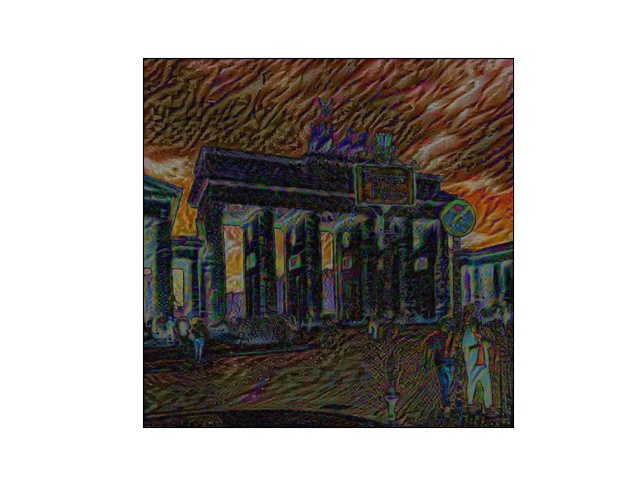
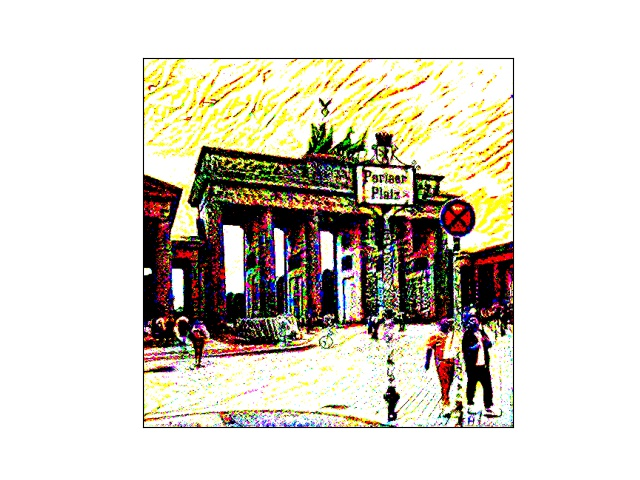
added photos, edit README, edit transfer

diff --git a/perform_transfer.py b/perform_transfer.py
@@ -45,7 +45,7 @@ best, best_loss = run_style_transfer(content_path, style_path,
 print(best_loss)
 
 plt.figure()
-plt.imshow(abs(best[0,:]/255))
+plt.imshow(best[0,:]/150)
 plt.tick_params(left = False, right = False , labelleft = False,
                 labelbottom = False, bottom = False)
 plt.savefig(os.path.join('finished_product', args.save_folder, "final.jpeg"))

diff --git a/README.md b/README.md
@@ -6,7 +6,13 @@ Here, we follow the implementation given in [this Tensorflow example](https://bl
 
 This project is done specifically for an art class I took in Berlin while studying abroad. In the class, we discussed art styles and movements from the 19th centry in Germany. My final project was focused on using these art styles and applying them to pictures I took around Berlin. 
 
-(Description of fotos and styles)
+### Subject Photos
+
+I chose as my subject matter the following photos of iconic Berlin scenes:
+
+Haus das Lehers mit Fernsehturm in Hintergrund
+
+(https://github.com/lvb5/NeuralStyleTransfer/blob/master/original_content/fernsehturm.jpeg)
 
 ## Running the code
 
@@ -24,4 +30,4 @@ python3 perform_transfer.py --nEpochs=100 --learning_rate=10.0 --content_path=<p
 
 ## Preparing Photos
 
-Ideally, both style and content photos of are the same dimension. In order to not consume too much memory / time in training, photos should be 500x500 pixels or smaller. After preparing photos as such, put them in appropriate folders and run the code!
+Both style and content photos _must_ be the same dimension in order to run. In order to not consume too much memory / time in training, photos should be 500x500 pixels or smaller. After preparing photos as such, put them in appropriate folders and run the code!
